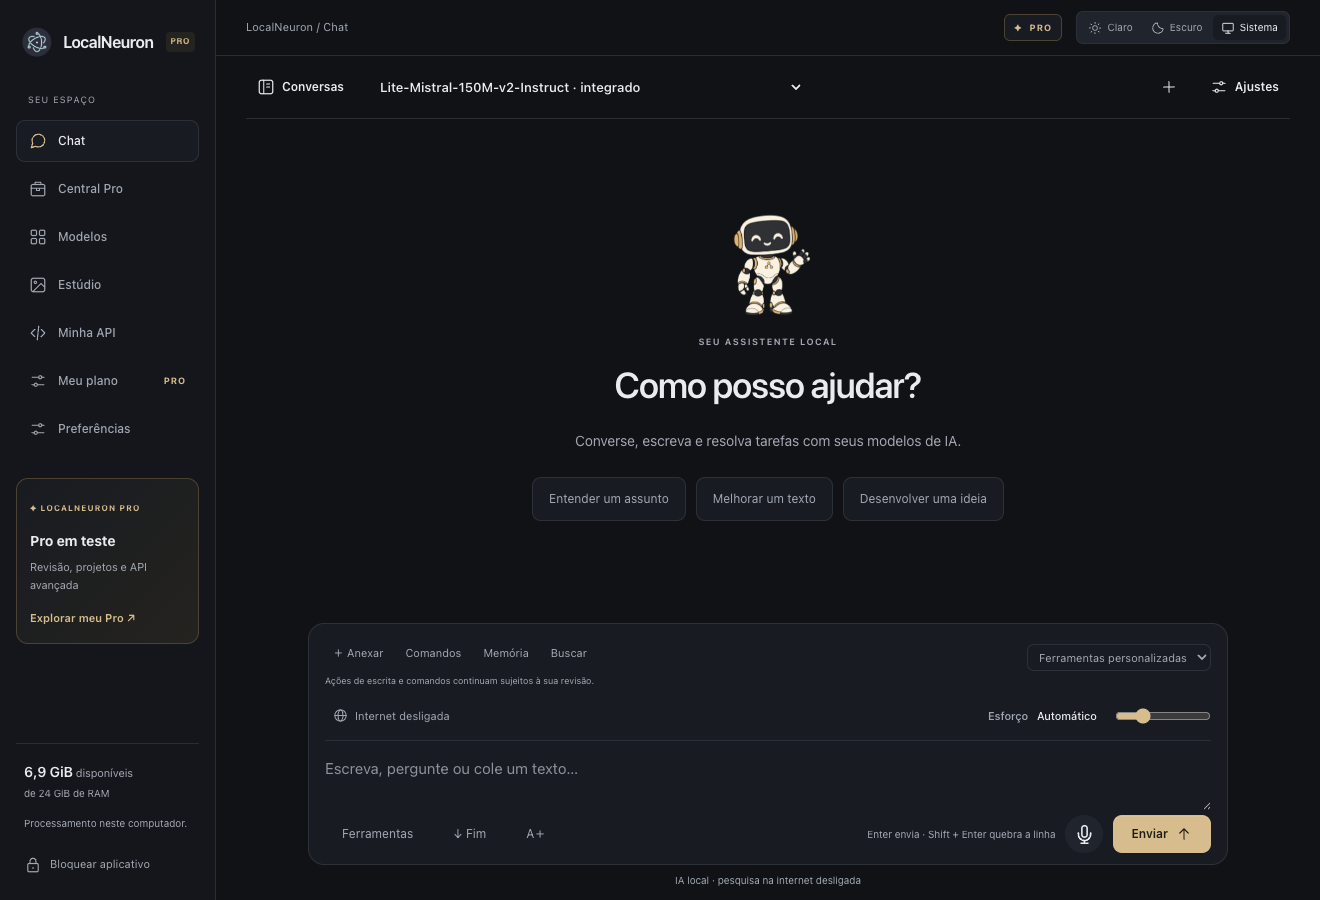
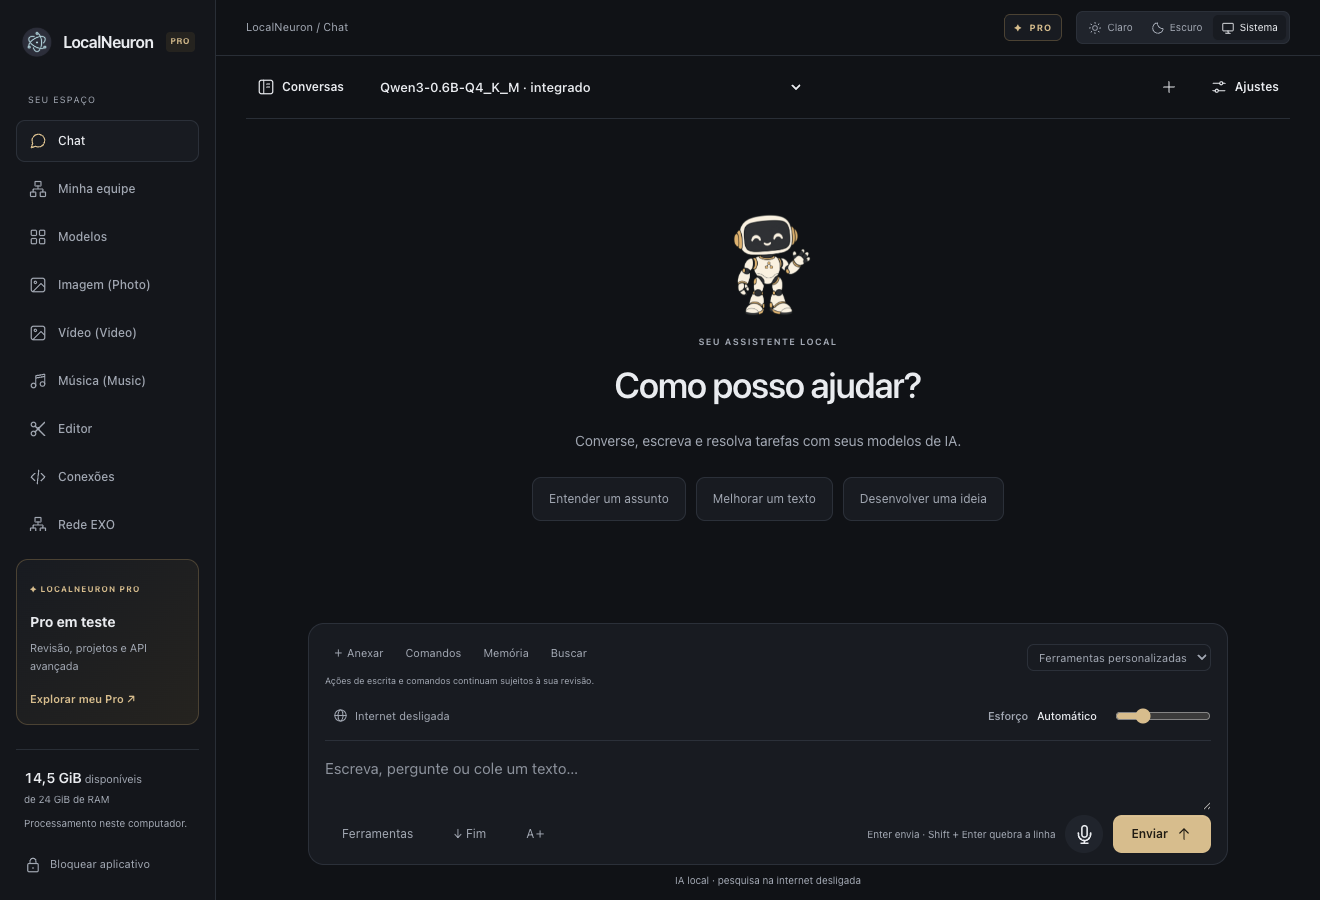
Show current LocalNeuron interface in public documentation

diff --git a/README.md b/README.md
@@ -5,6 +5,8 @@
 
 ![Interface do LocalNeuron](website/product.png)
 
+*Interface 0.26 em espaço de demonstração. A ativação Pro de teste mostrada não acompanha os pacotes públicos.*
+
 **Alfa 0.26.0.** Aplicativo desktop para usar modelos de IA no próprio computador, com motores independentes de LM Studio. A instalação de modelos precisa de internet; depois de preparados, os motores compatíveis fazem inferência local e offline. Pesquisar na web e usar serviços conectados exige rede.
 
 ## Download e primeiros passos
